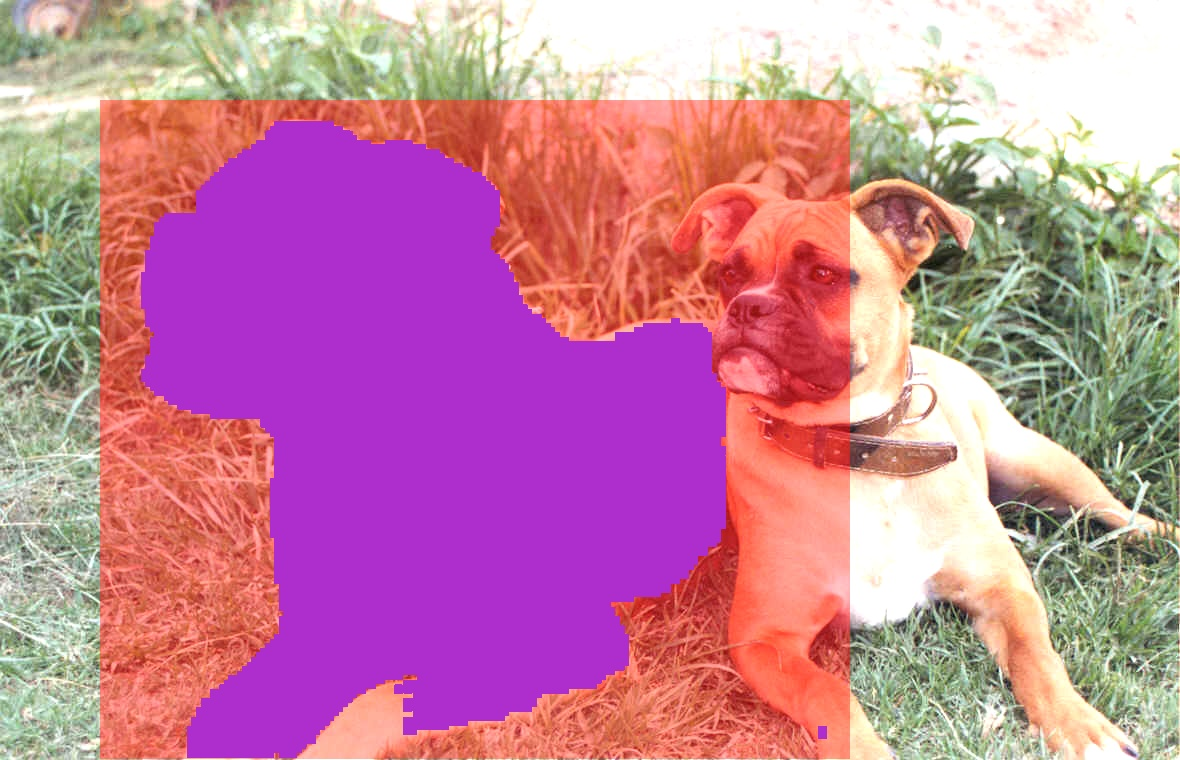
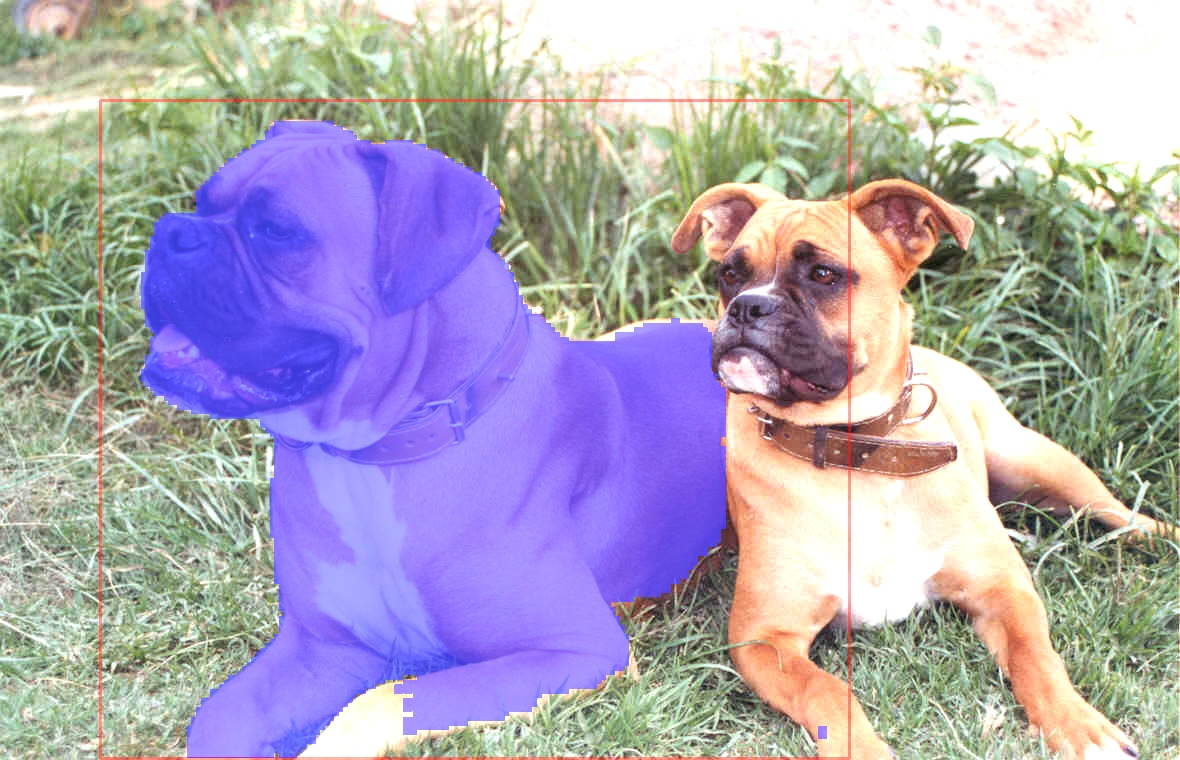
add sam

diff --git a/model/sam/sam.cpp b/model/sam/sam.cpp
@@ -32,7 +32,6 @@ void SAM::predict(const std::vector<cv::Point2f> &image_point_coords, const std:
 
     cv::Rect roi(scale_dw, scale_dh, seg_w - 2 * scale_dw, seg_h - 2 * scale_dh);
 
-    cv::imwrite("../output/sam/mask.jpg", low_res_mask > 0);
     cv::Mat mask = low_res_mask(roi);
     mask = mask > 0.0f;
     cv::resize(mask, output_mask, cv::Size((int)width, (int)height), cv::INTER_LINEAR);

diff --git a/test/sam_test.cpp b/test/sam_test.cpp
@@ -28,7 +28,7 @@ int main() {
     cv::Mat res = image.clone();
     cv::Mat mask = image.clone();
 
-    cv::rectangle(res, cv::Rect(100, 100, 750, 659), {0, 0, 255}, -1);
+    cv::rectangle(res, cv::Rect(100, 100, 750, 659), {0, 0, 255}, 2);
     mask.setTo(cv::Scalar(255, 56, 56), output_mask);
     cv::addWeighted(res, 0.5, mask, 0.8, 1, res);
     cv::imwrite("../output/sam/dogs.jpg", res);
